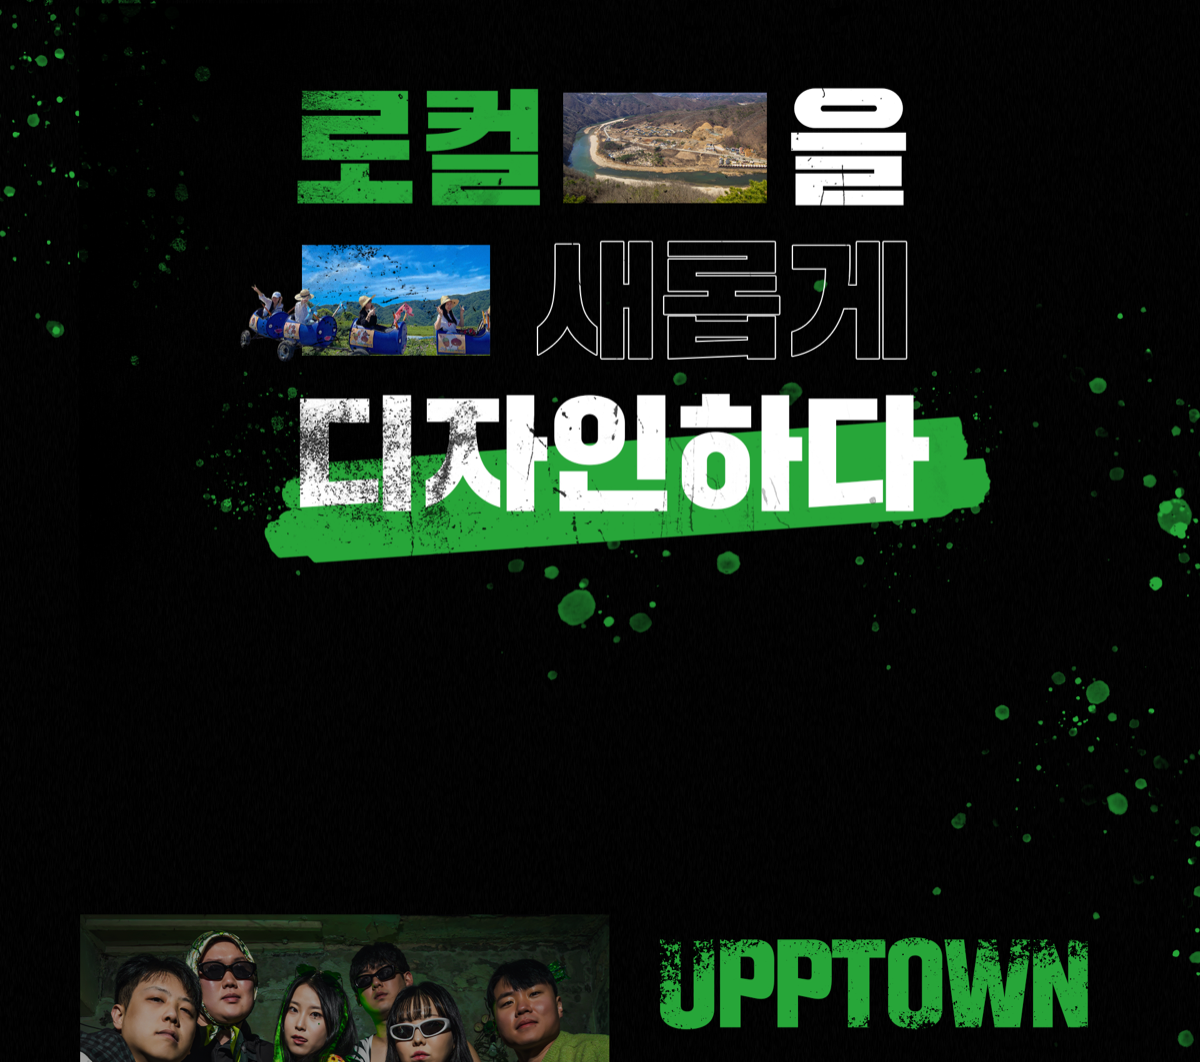
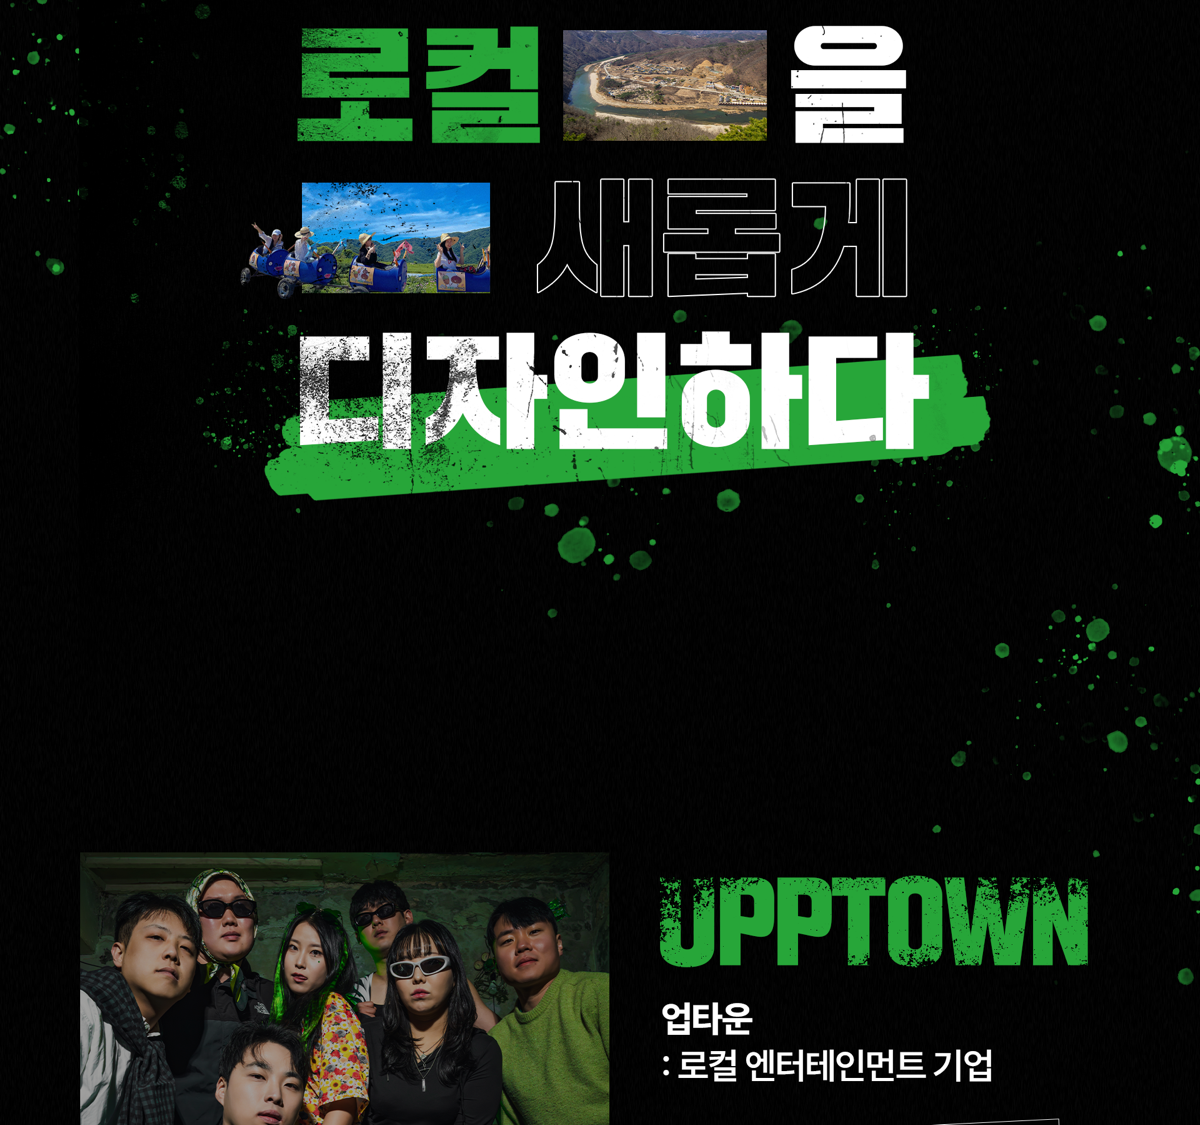
Fix About: clean PSD composite slices, no overlays, full coverage
- Re-sliced PSD with better crop positions (no gaps/overlaps)
- 9 sections covering full 14625px PSD height
- Removed broken layer positioning system
- Each section fades in on scroll
- Compressed ending section to JPEG

diff --git a/public/index.html b/public/index.html
@@ -299,70 +299,17 @@ footer{background:var(--dk);padding:80px 24px 48px;text-align:center;border-top:
   <div class="scroll-ind"><span>SCROLL</span><div class="arrow"></div></div>
 </section>
 
-<!-- ===== ABOUT - PSD 레이어 배치 ===== -->
+<!-- ===== ABOUT - PSD 컴포짓 슬라이스 (9섹션) ===== -->
 <section id="about">
-  <div class="L" style="--h:130vw;"><!-- PSD ~0-1800: 히어로 -->
-    <div class="P" style="--bg:var(--dk);">
-      <img class="A rv" src="images/web/about-layers/photo-hero.png" style="width:54%;top:23%;left:30%;" loading="lazy">
-      <img class="A rv od1" src="images/web/about-layers/local.png" style="width:51%;top:18%;left:5%;" loading="lazy">
-      <img class="A rv od2" src="images/web/about-layers/le-sub.png" style="width:29%;top:55%;left:46%;" loading="lazy">
-      <img class="A rv od3" src="images/web/about-layers/entertainment.png" style="width:65%;top:63%;left:28%;" loading="lazy">
-    </div>
-  </div>
-
-  <div class="L" style="--h:90vw;"><!-- PSD ~1800-3500: 로컬을 새롭게 디자인하다 -->
-    <div class="P" style="--bg:var(--dk);">
-      <img class="A rv sl" src="images/web/about-layers/redesign-group.png" style="width:57%;top:5%;left:18%;" loading="lazy">
-      <img class="A rv od2 sr" src="images/web/about-layers/upptown.png" style="width:36%;top:68%;right:5%;" loading="lazy">
-    </div>
-  </div>
-
-  <div class="L" style="--h:80vw;"><!-- PSD ~3300-4500: 미션 -->
-    <div class="P" style="--bg:var(--dk);">
-      <img class="A rv" src="images/web/about-layers/photo-crew.png" style="width:44%;top:5%;left:3%;" loading="lazy">
-      <img class="A rv od1" src="images/web/about-layers/bar1.png" style="width:43%;top:52%;left:42%;" loading="lazy">
-      <img class="A rv od1" src="images/web/about-layers/bar2.png" style="width:39%;top:60%;left:50%;" loading="lazy">
-      <img class="A rv od1" src="images/web/about-layers/bar3.png" style="width:20%;top:68%;left:62%;" loading="lazy">
-      <img class="A rv od1" src="images/web/about-layers/bar4.png" style="width:36%;top:75%;left:44%;" loading="lazy">
-      <img class="A rv od2" src="images/web/about-layers/mission1.png" style="width:36%;top:52%;left:44%;" loading="lazy">
-      <img class="A rv od3" src="images/web/about-layers/mission2.png" style="width:33%;top:60%;left:55%;" loading="lazy">
-      <img class="A rv od4" src="images/web/about-layers/mission3.png" style="width:14%;top:68%;left:65%;" loading="lazy">
-      <img class="A rv od5" src="images/web/about-layers/mission4.png" style="width:30%;top:75%;left:47%;" loading="lazy">
-      <img class="A rv sc od1" src="images/web/about-layers/upptown-sub.png" style="width:27%;top:42%;left:52%;" loading="lazy">
-    </div>
-  </div>
-
-  <div class="L" style="--h:75vw;"><!-- PSD ~4400-5800: WHAT WE DO -->
-    <div class="P" style="--bg:#222;">
-      <img class="A rv sc" src="images/web/about-layers/whatwedo.png" style="width:54%;top:4%;left:10%;" loading="lazy">
-      <img class="A rv od1 su" src="images/web/about-layers/icons-row2.png" style="width:76%;top:30%;left:7%;" loading="lazy">
-      <img class="A rv od2 su" src="images/web/about-layers/icons-row1.png" style="width:76%;top:55%;left:7%;" loading="lazy">
-    </div>
-  </div>
-
-  <div class="L" style="--h:100vw;"><!-- PSD ~5800-7400: local contents -->
-    <div class="P" style="--bg:var(--dk);">
-      <img class="A rv sc" src="images/web/about-layers/localcontents.png" style="width:60%;top:2%;left:14%;" loading="lazy">
-      <img class="A rv od1" src="images/web/about-layers/socialing-desc.png" style="width:39%;top:10%;left:24%;" loading="lazy">
-      <img class="A rv od2 su" src="images/web/about-layers/brand-photos.png" style="width:89%;top:18%;left:2%;" loading="lazy">
-      <img class="A rv od3" src="images/web/about-layers/stat-label1.png" style="width:10%;top:65%;left:3%;" loading="lazy">
-      <img class="A rv od3" src="images/web/about-layers/stat-label2.png" style="width:11%;top:65%;left:22%;" loading="lazy">
-      <img class="A rv od3" src="images/web/about-layers/stat-label3.png" style="width:10%;top:65%;left:45%;" loading="lazy">
-      <img class="A rv od3" src="images/web/about-layers/stat-label4.png" style="width:12%;top:65%;left:72%;" loading="lazy">
-      <img class="A rv od4 sc" src="images/web/about-layers/stat-130.png" style="width:14%;top:72%;left:1%;" loading="lazy">
-      <img class="A rv od4 sc" src="images/web/about-layers/stat-3000.png" style="width:20%;top:72%;left:19%;" loading="lazy">
-      <img class="A rv od4 sc" src="images/web/about-layers/stat-40000.png" style="width:24%;top:72%;left:43%;" loading="lazy">
-      <img class="A rv od4 sc" src="images/web/about-layers/stat-80.png" style="width:11%;top:72%;left:73%;" loading="lazy">
-    </div>
-  </div>
-
-  <div class="L" style="--h:80vw;"><!-- PSD ~7200-9200: local brand -->
-    <div class="P" style="--bg:#1a1a1a;">
-      <img class="A rv sc" src="images/web/about-layers/localbrand.png" style="width:47%;top:8%;left:18%;" loading="lazy">
-      <img class="A rv od1" src="images/web/about-layers/brand-desc.png" style="width:48%;top:18%;left:18%;" loading="lazy">
-      <img class="A rv od2" src="images/web/about-layers/brand-stats.png" style="width:39%;top:78%;left:24%;" loading="lazy">
-    </div>
-  </div>
+  <div class="full-img rv"><img src="images/web/sections/about-1-hero.png" alt="LOCAL ENTERTAINMENT" loading="lazy"></div>
+  <div class="full-img rv"><img src="images/web/sections/about-2-redesign.png" alt="로컬을 새롭게 디자인하다" loading="lazy"></div>
+  <div class="full-img rv"><img src="images/web/sections/about-3-mission.png" alt="UPPTOWN 미션" loading="lazy"></div>
+  <div class="full-img rv"><img src="images/web/sections/about-4-whatwedo.png" alt="WHAT WE DO?" loading="lazy"></div>
+  <div class="full-img rv"><img src="images/web/sections/about-5-contents.png" alt="Local Contents" loading="lazy"></div>
+  <div class="full-img rv"><img src="images/web/sections/about-6-brand.png" alt="Local Brand" loading="lazy"></div>
+  <div class="full-img rv"><img src="images/web/sections/about-7-crew.png" alt="34+ CREW" loading="lazy"></div>
+  <div class="full-img rv"><img src="images/web/sections/about-8-awards.png" alt="Awards" loading="lazy"></div>
+  <div class="full-img rv"><img src="images/web/sections/about-9-ending.jpg" alt="UPPTOWN은 함께입니다" loading="lazy"></div>
 </section>
 
 <!-- ===== HOW IT WORKS ===== -->
